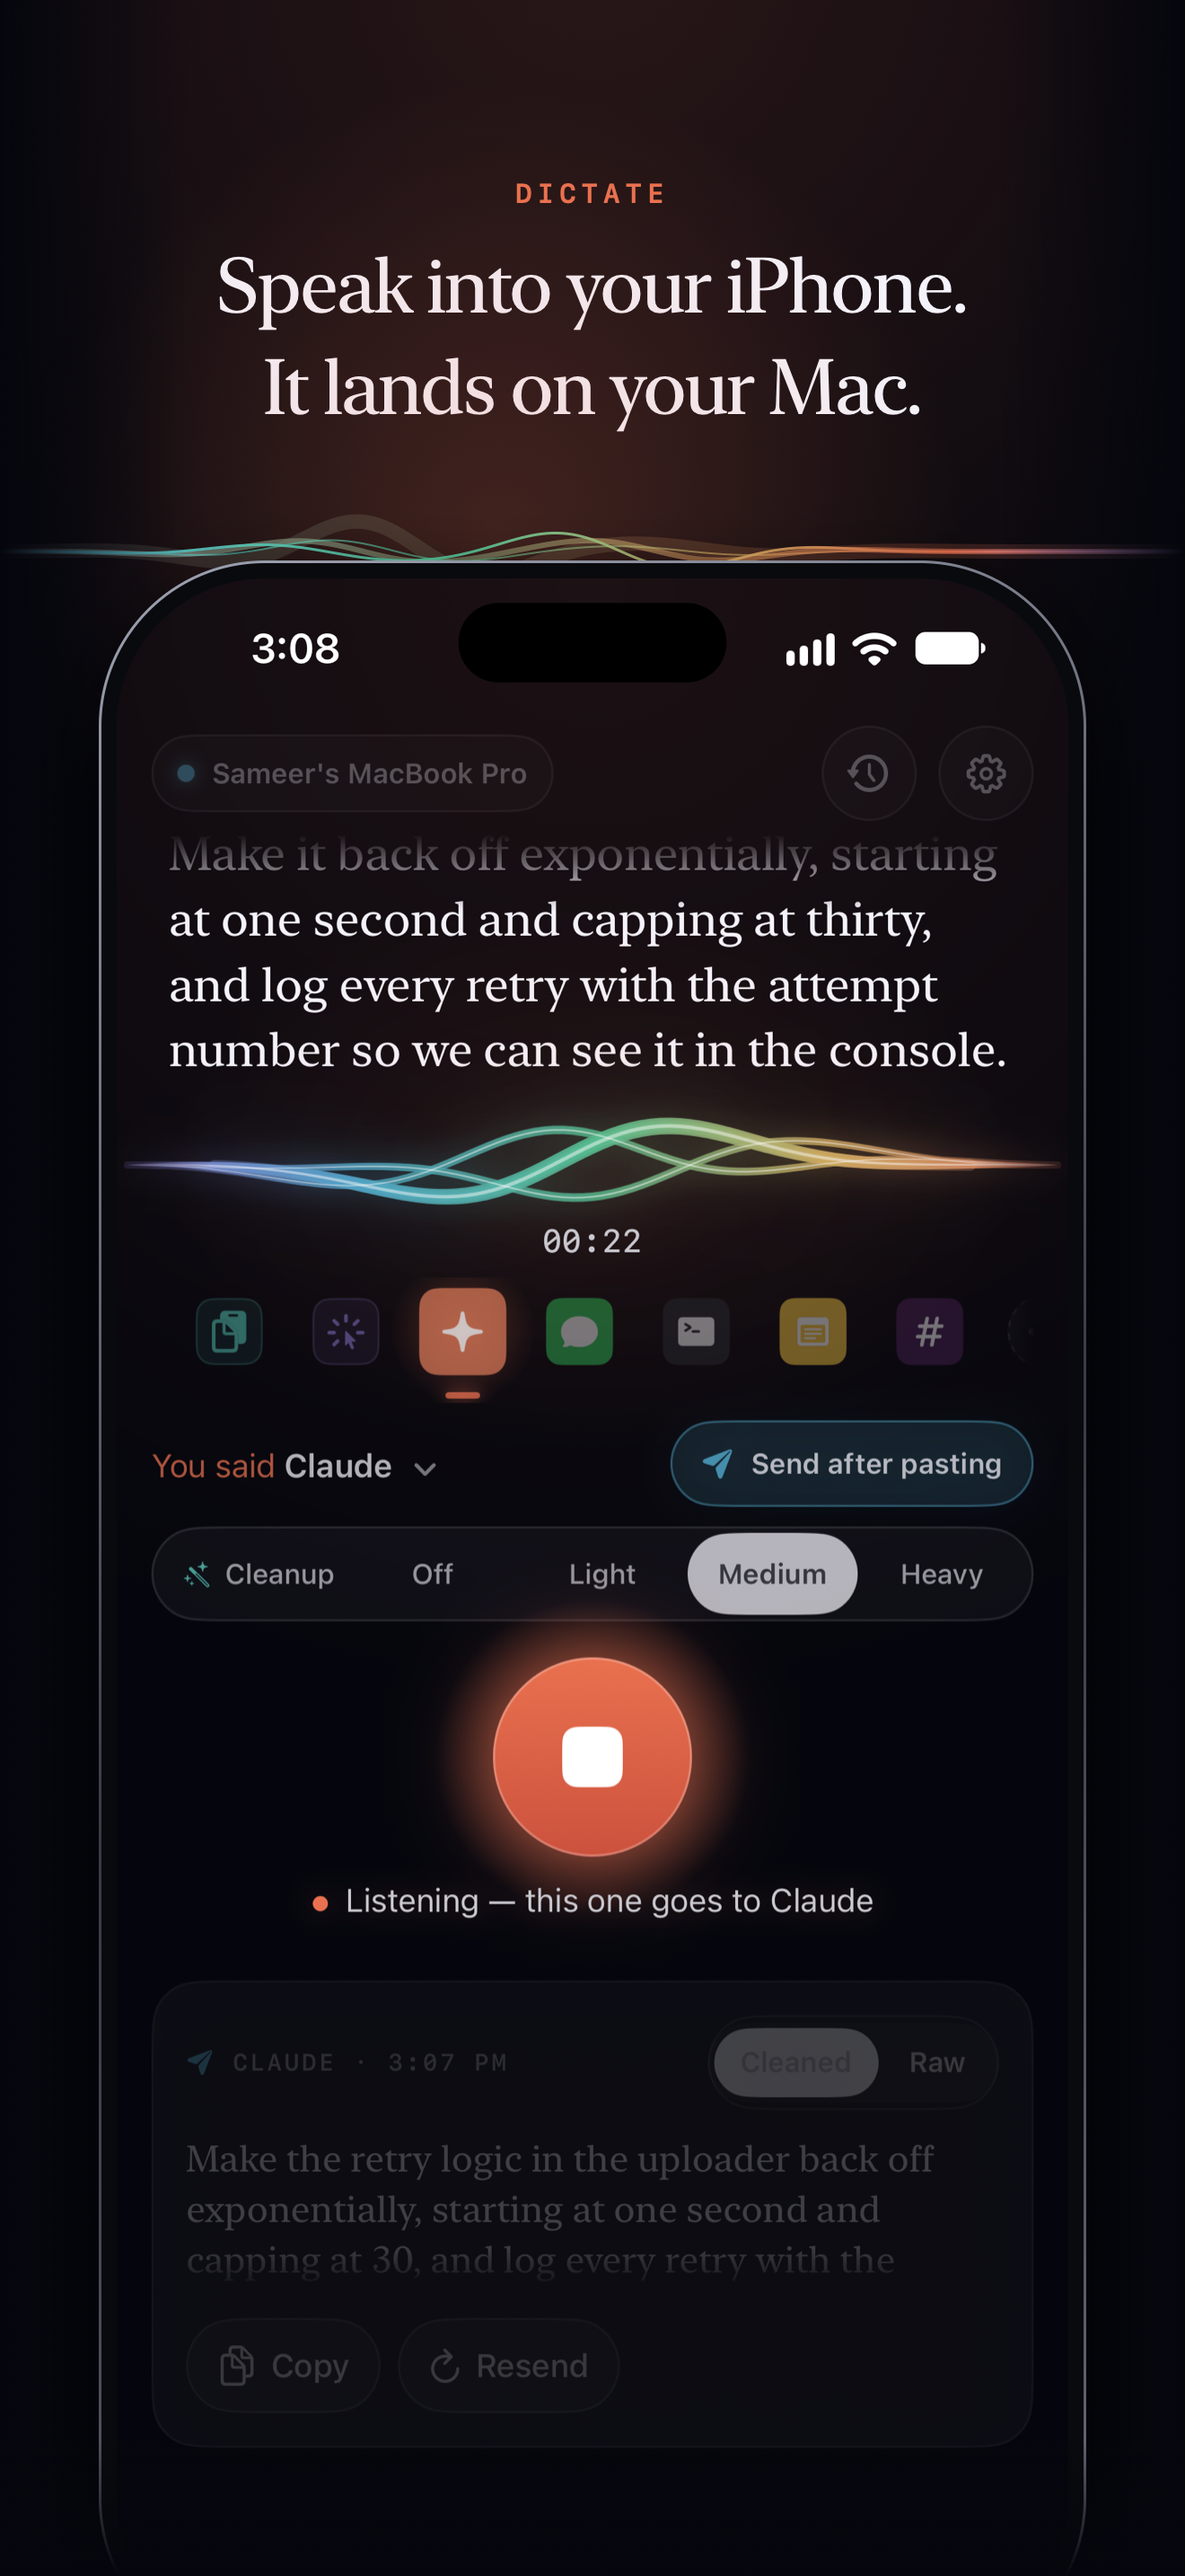
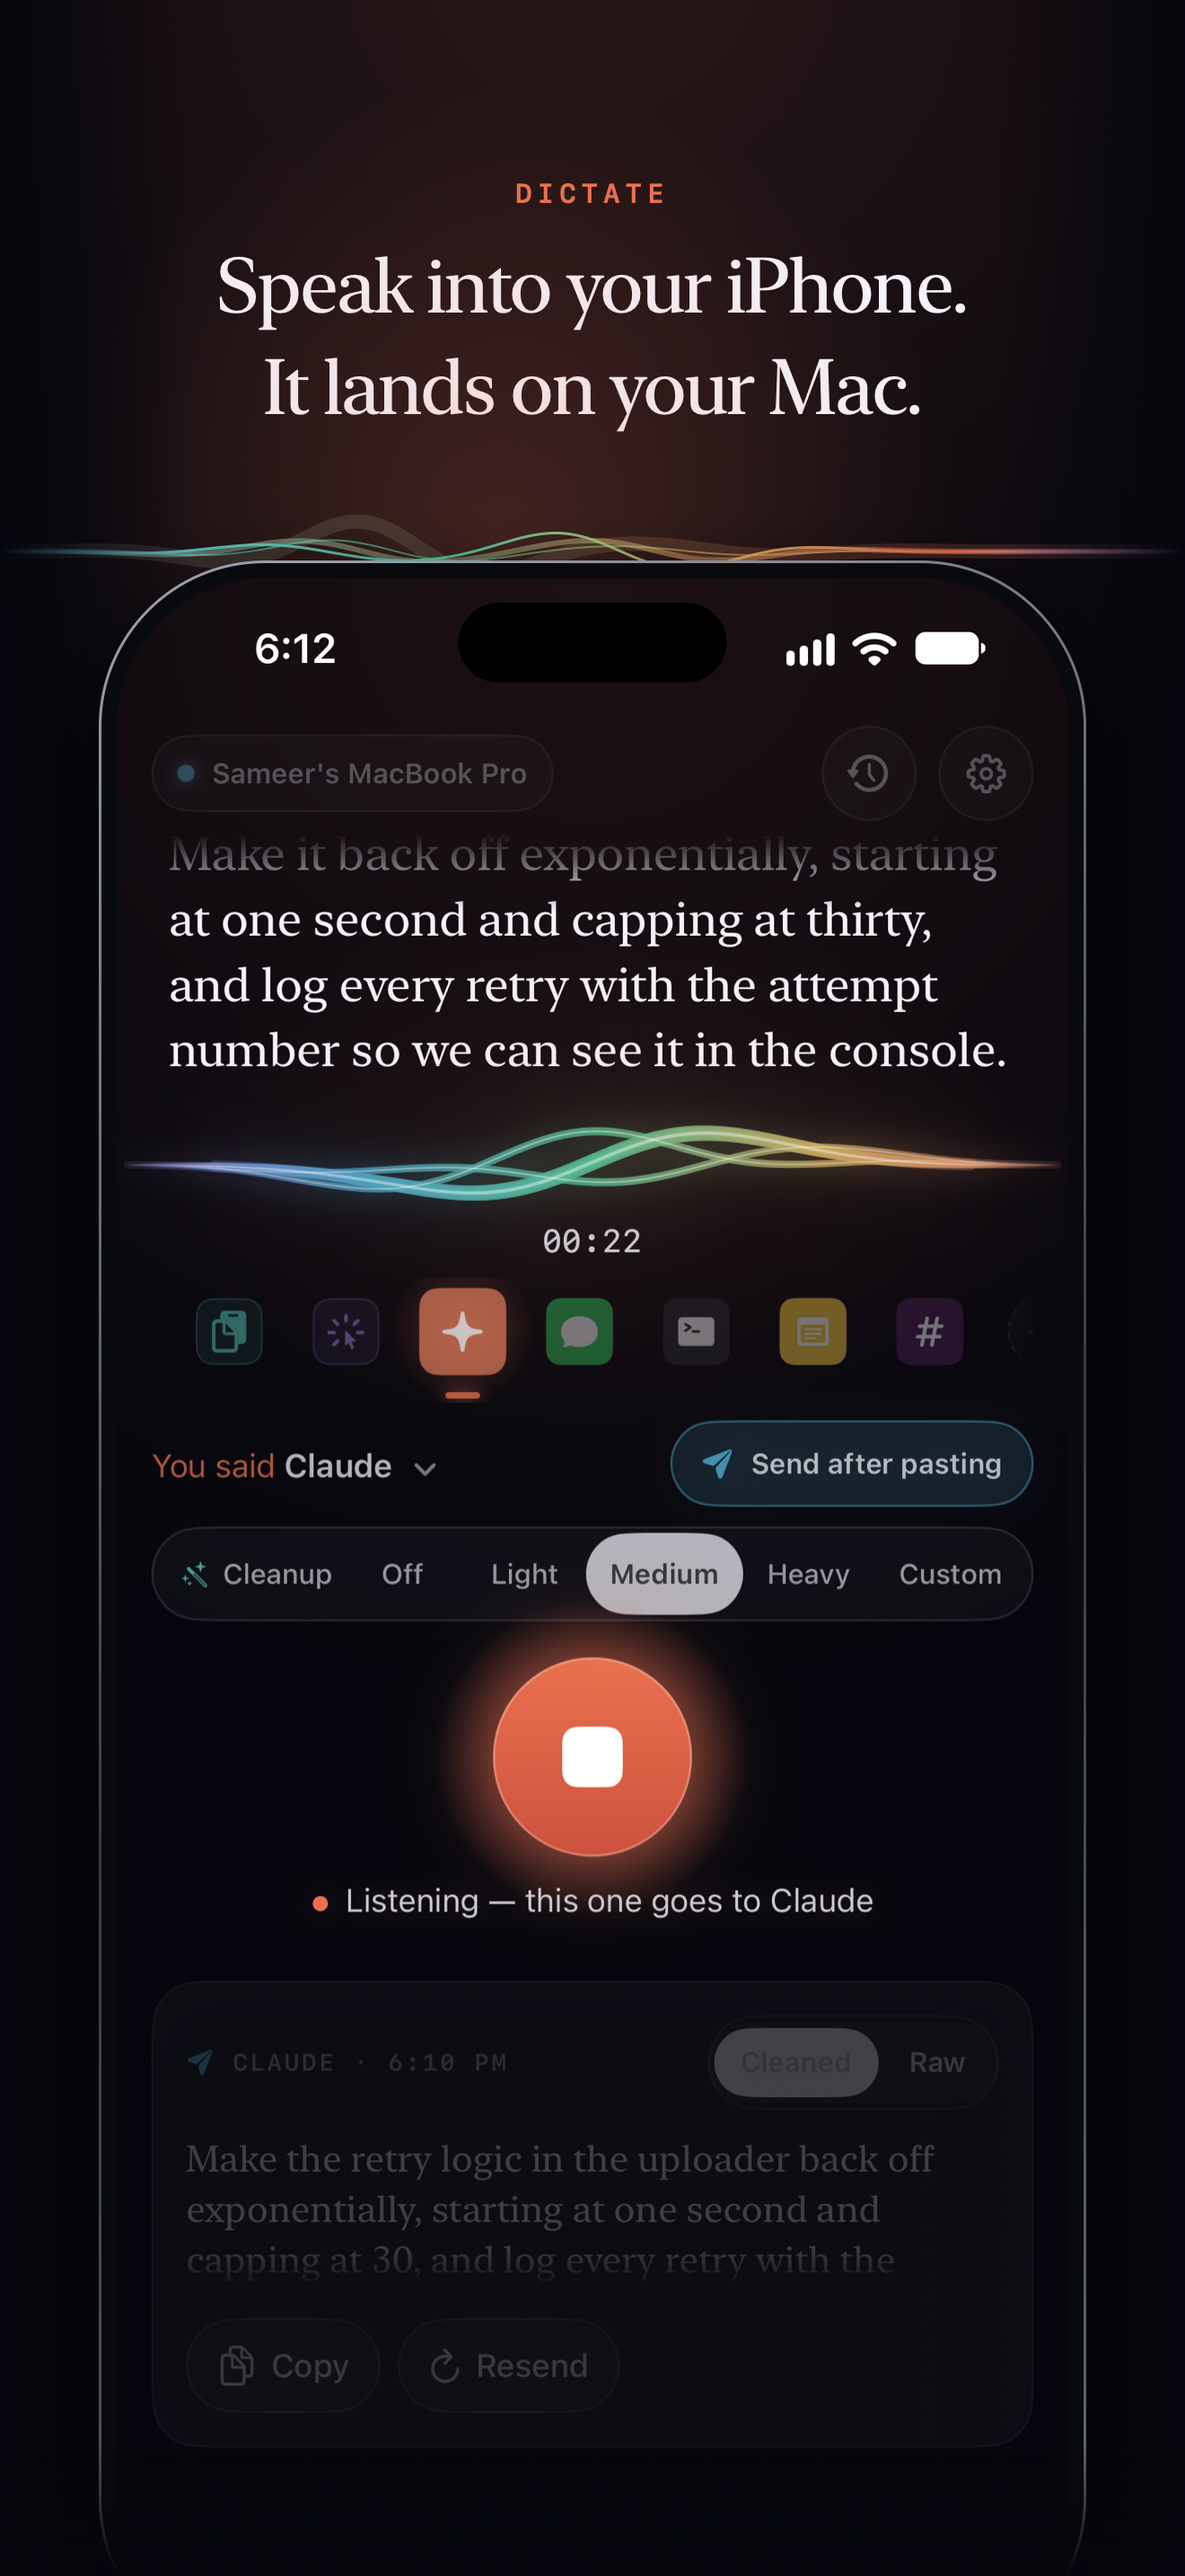
iPhone: screenshots of every remaining screen (docs/screens/simple); App Store shots re-rendered with the five cleanup steps, shot 04 now 'Four levels, or your own.'

diff --git a/iOS/scripts/render-store-shots.swift b/iOS/scripts/render-store-shots.swift
@@ -55,7 +55,7 @@ let shots: [Shot] = [
     Shot(file: "01-recording", kicker: "Dictate", caption: "Speak into your iPhone.\nIt lands on your Mac.", glow: ember, peak: 0.42),
     Shot(file: "02-delivered", kicker: "Voice targets", caption: "Say where it goes.\nIt goes straight there.", glow: mint, peak: 0.58),
     Shot(file: "03-send-to", kicker: "Send to", caption: "Pick where it goes.\nOr just say it.", glow: cyan, peak: 0.36),
-    Shot(file: "04-cleanup", kicker: "Cleanup", caption: "Four levels of cleanup.\nIt edits, never answers.", glow: teal, peak: 0.62,
+    Shot(file: "04-cleanup", kicker: "Cleanup", caption: "Four levels, or your own.\nIt edits, never answers.", glow: teal, peak: 0.62,
          beforeAfter: ("so um the thing I want is, uh, make the retry logic back off, no wait, back off exponentially and cap it at thirty seconds",
                        "Make the retry logic back off exponentially and cap it at 30 seconds.", "Medium")),
     Shot(file: "05-history", kicker: "History", caption: "Raw and cleaned,\nkept on your iPhone.", glow: violet, peak: 0.45),
